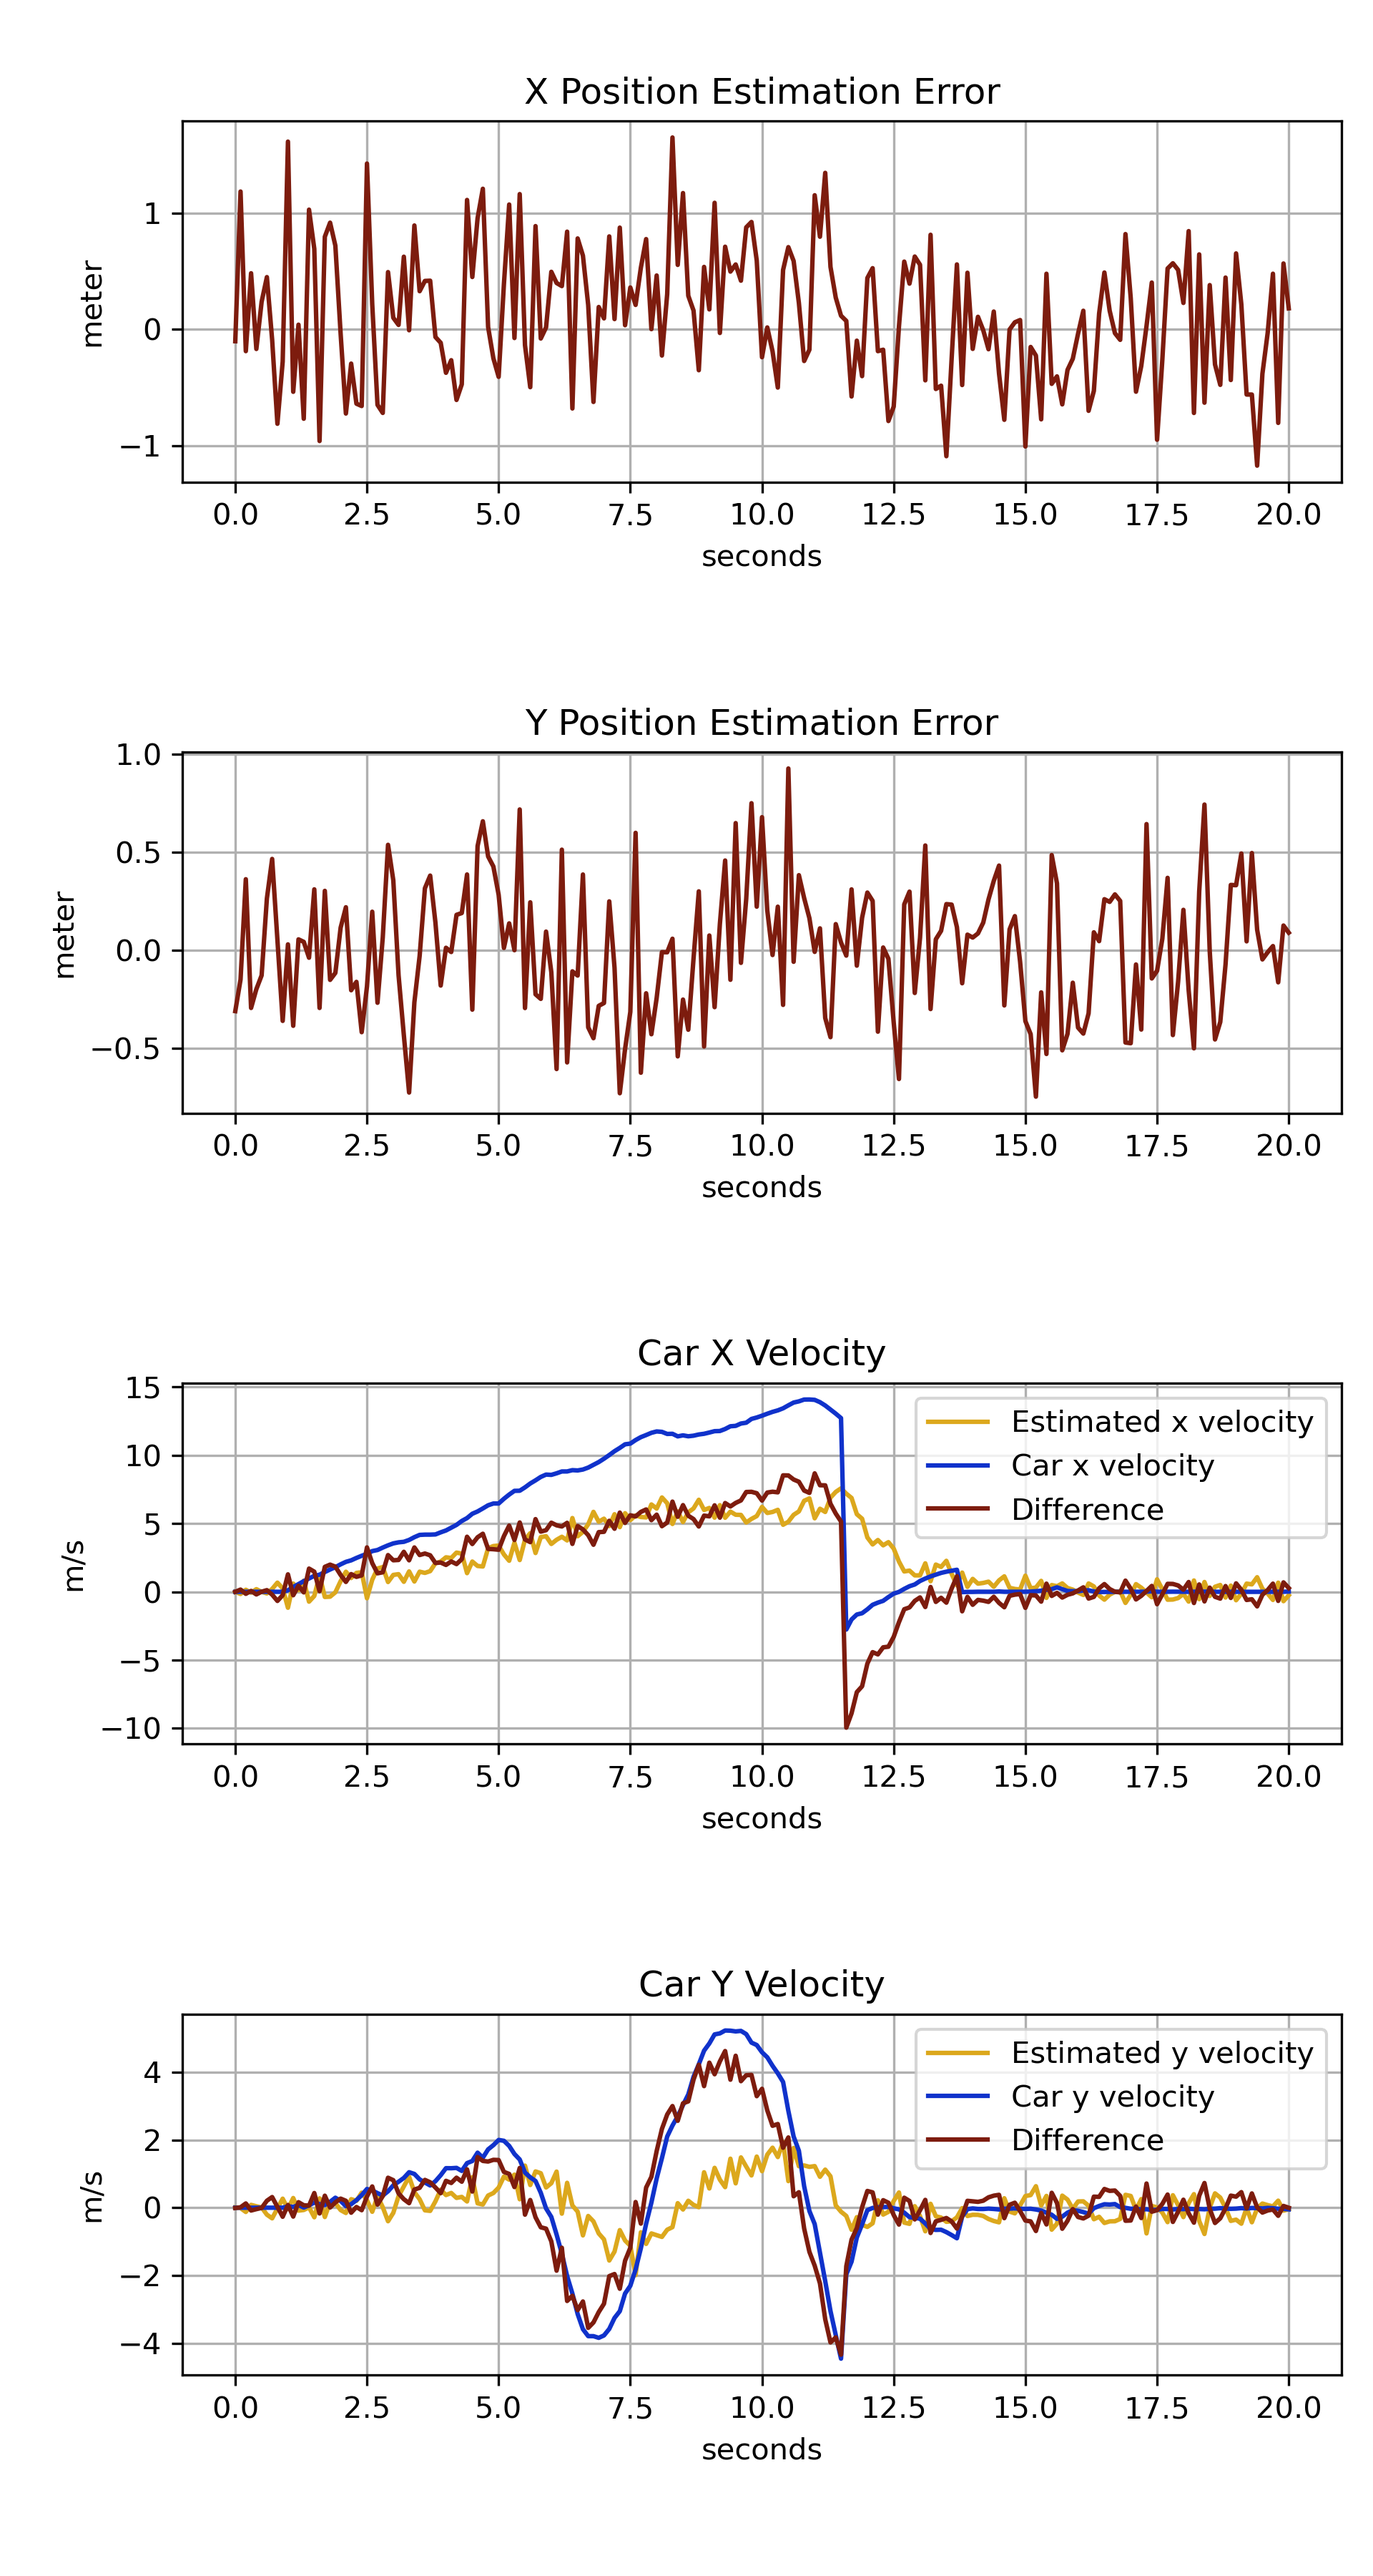
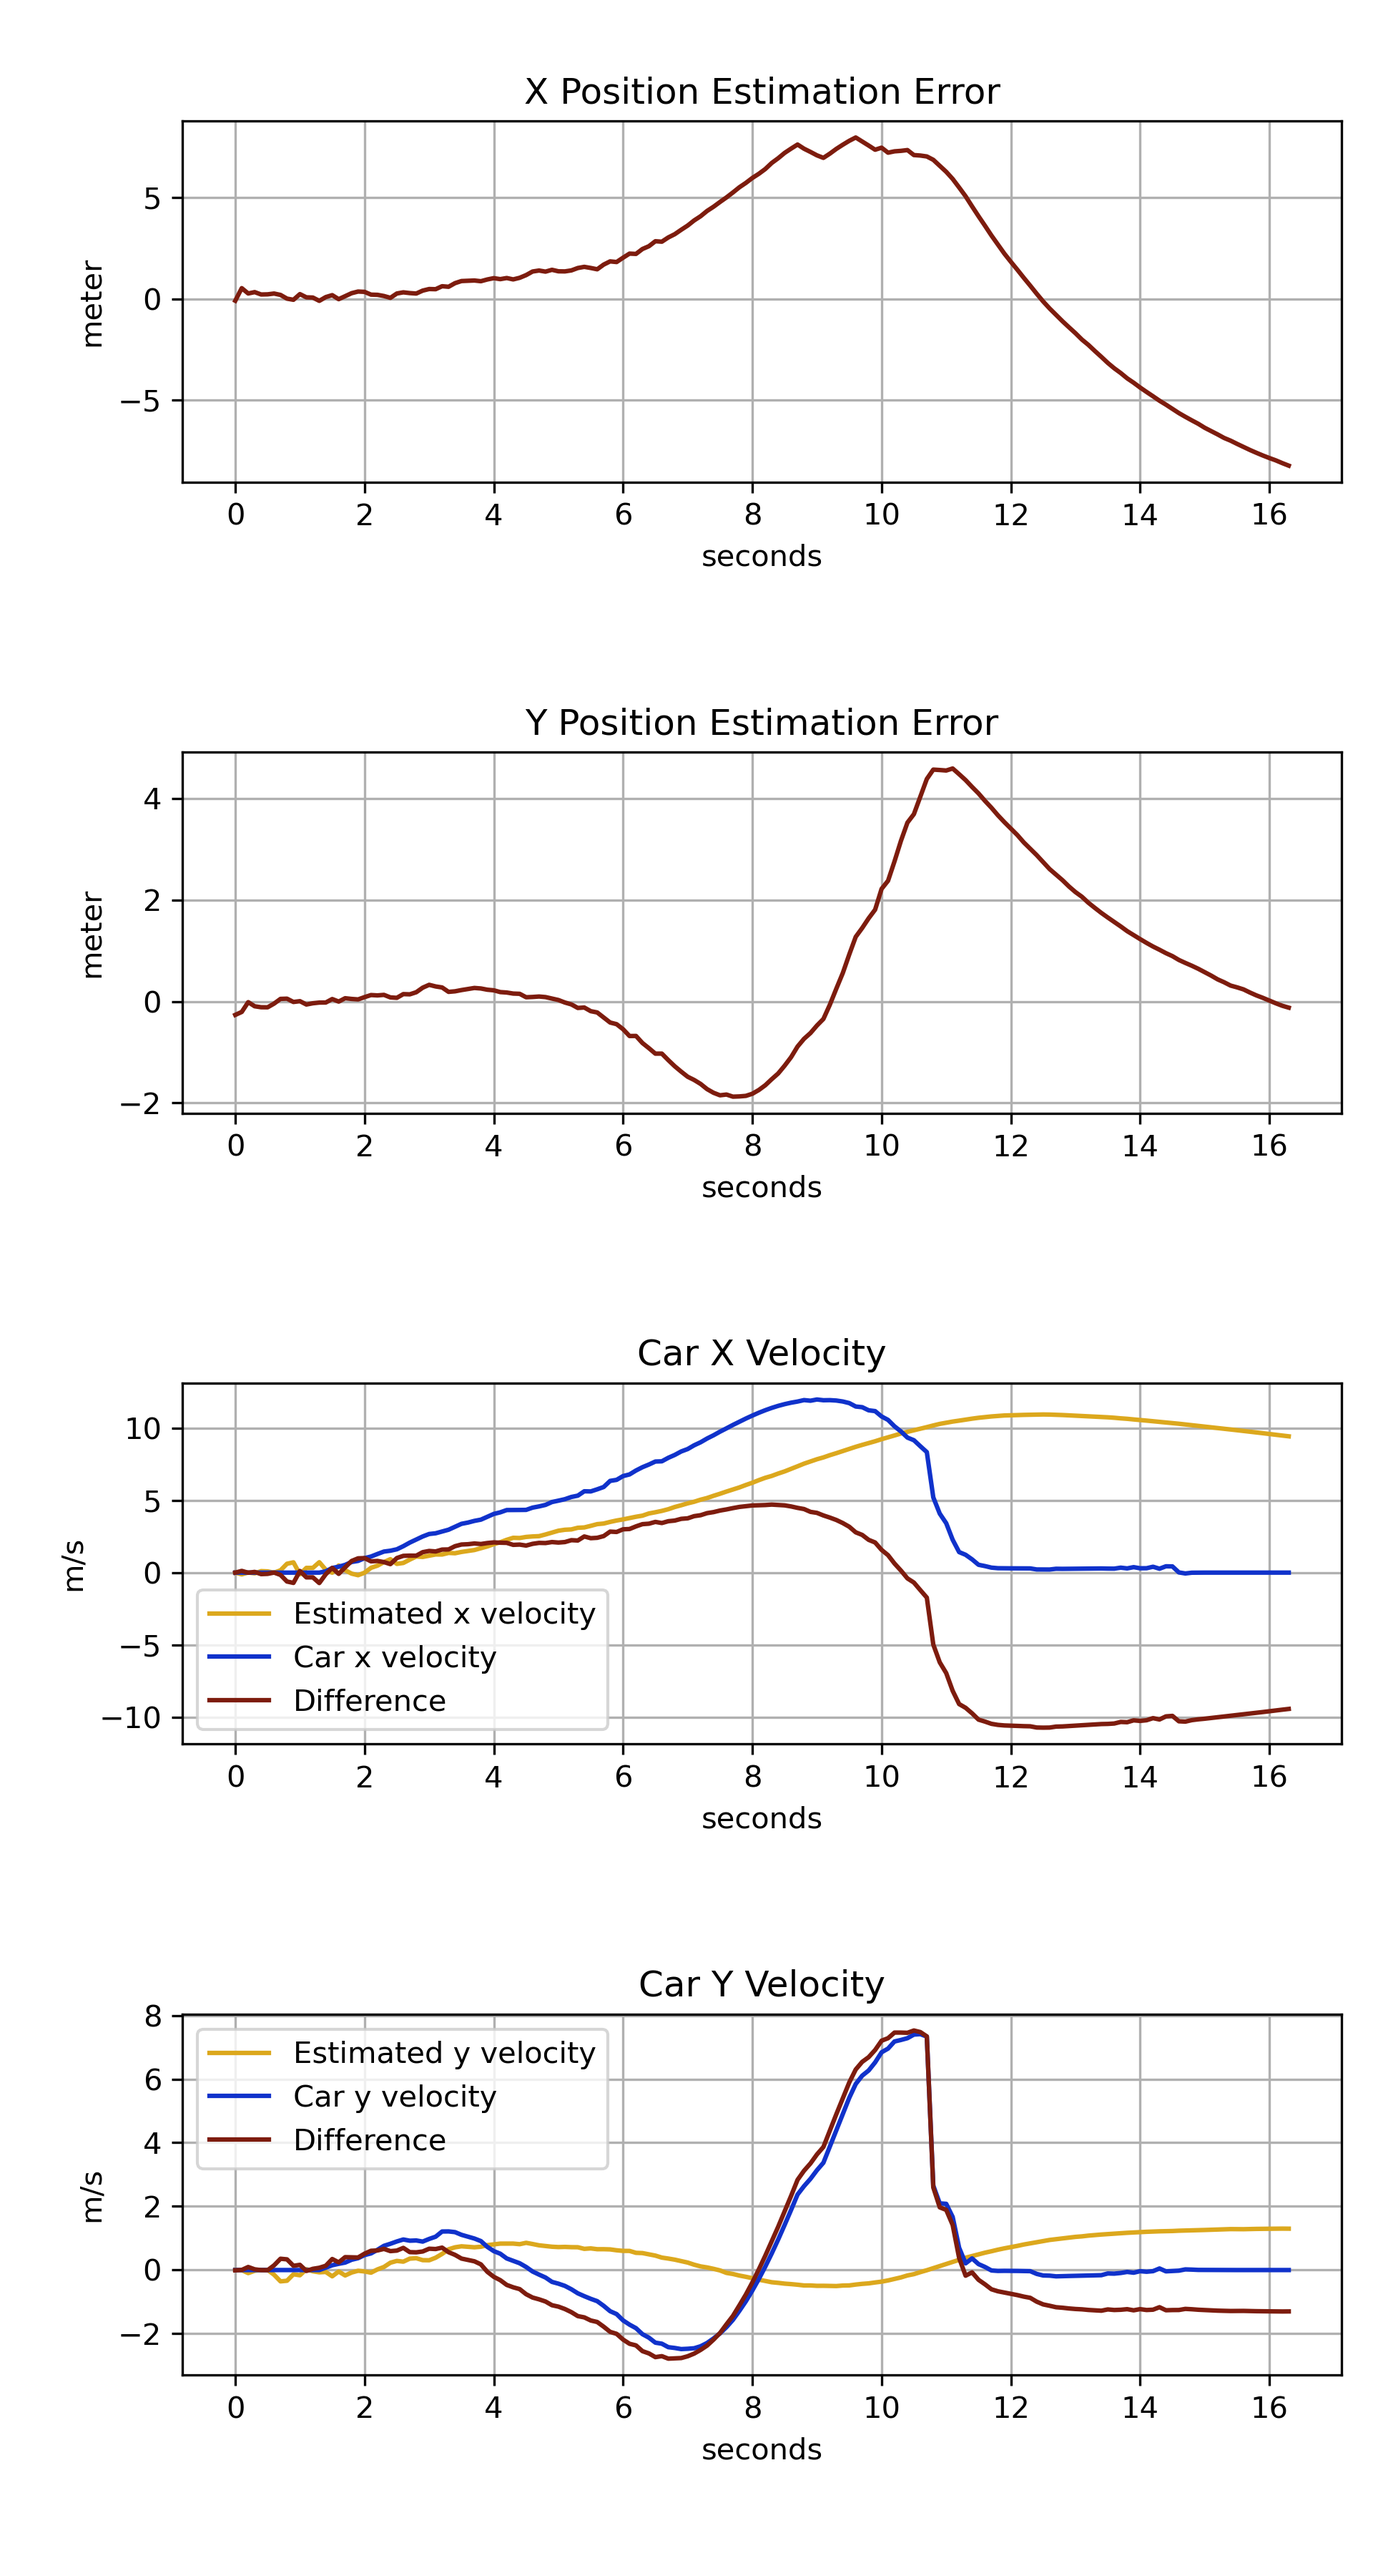
update

diff --git a/student_task.py b/student_task.py
@@ -56,11 +56,8 @@ class KalmanFilter:
         # 3. Define the system matrix
         # ****************************************************************
         # TODO: Define, with the motion model of your car, the system matrix.
-        # self.A = np.array([[1, delta_seconds, 1 / 2. * delta_seconds ** 2],
-        #                    [0, 1, delta_seconds],
-        #                    [0, 0, 1]])
-        self.A = np.array([[1.0, 0.0, delta_seconds, 0.0],
-                           [0.0, 1.0, 0.0, delta_seconds],
+        self.A = np.array([[1.0, self.delta_seconds, 1/2.*self.delta_seconds**2, 0.0],
+                           [0.0, 1.0, self.delta_seconds, 0.0],
                            [0.0, 0.0, 1.0, 0.0],
                            [0.0, 0.0, 0.0, 1.0]])
 
@@ -69,8 +66,6 @@ class KalmanFilter:
         # ****************************************************************
         # The R matrix indicates the inaccuracy of our measurement vector y.
         # TODO: Add the variance for the measurement noise of each sensor.
-        #self.R = np.diag([[gps_stddev_x ** 2, 0.0],
-                     #      [0.0, imu_stddev ** 2]])
         self.R = np.diag([gps_stddev_x ** 2, gps_stddev_y ** 2, imu_stddev ** 2, imu_stddev ** 2])
         # ****************************************************************
         # 5. The process noise matrix
@@ -82,14 +77,17 @@ class KalmanFilter:
         # The Q matrix has the same dimension as the P and A matrix.
         # TODO: Test with different values. What influence does the Q-Matrix have on the estimation of the Kalman Filter?
         # TODO: Q = np.diag([variance for state1, variance for state2, ...])
-
-        self.Q = np.diag([0.0, 0.0, 0.0, 0.0])
+        noise = 0.1
+        self.Q = np.diag([noise**1/2.*self.delta_seconds**2,
+                          noise**1/2.*self.delta_seconds,
+                          noise**1/2.,
+                          noise])
         # ****************************************************************
         # 6. The initial error covariance matrix P
         # ****************************************************************
         # TODO: Determine the error of the initial state estimate.
         # TODO: dx = np.array([standard deviation from the first state, ...])
-        # dx = np.array([gps_stddev_x, gps_stddev_y, imu_stddev])
+
         dx = np.array([gps_stddev_x, gps_stddev_y, imu_stddev, imu_stddev])
         self.P = np.dot(dx.T, dx)
 
@@ -98,10 +96,7 @@ class KalmanFilter:
         # *****************************************************************
         # TODO: Determine how much the control_input changes each state vector component.
         # You can implement the Kalman filter at the beginning without the control input and the B matrix.
-        # self.B = np.array([[1 / 2. * delta_seconds ** 2],
-        #                    [delta_seconds],
-        #                    [1]])
-        # self.B = np.zeros((4, 2))
+        # self.B = np.array([[1 / 2. * delta_seconds ** 2], [delta_seconds], [1]])
 
         # Kalman matrix
         self.K = None
@@ -142,15 +137,6 @@ class KalmanFilter:
 
         # P = (I - K*C)*P
         self.P = np.dot((np.eye(4) - np.dot(self.K, self.C)), self.P)
-
-        # Prediction step of the kalman filter
-        #self.x = np.dot(self.A, self.x)
-        #self.P = np.dot(np.dot(self.A, self.P), self.A.T) + self.Q
-
-        # Correction step of the kalman filter
-        #self.K = np.dot(np.dot(self.P, self.C.T), inv(np.dot(np.dot(self.C, self.P), self.C.T) + self.R))
-        #self.x = self.x + np.dot(self.K, (y - np.dot(self.C, self.x)))
-        #self.P = np.dot((np.eye(4) - np.dot(self.K, self.C)), self.P)
 
         # Return the updated state of the car
         return self.x
